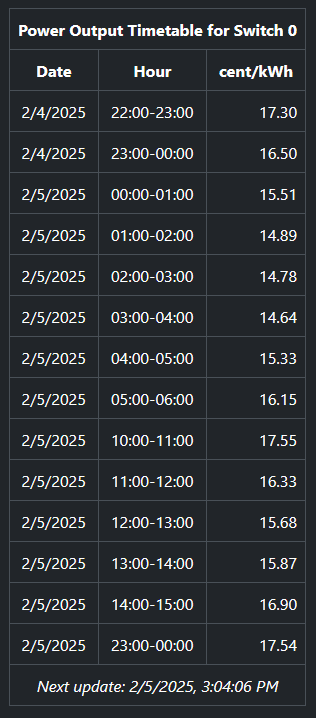
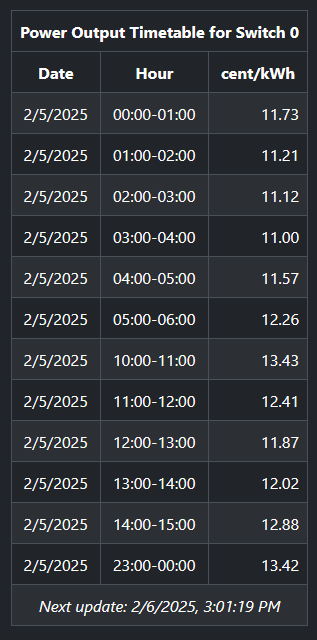
Change endpoint table to striped.

Changed region(s): [[0.0285, 0.0, 0.9968, 1.0]]

diff --git a/dist/final.js b/dist/final.js
@@ -1,15 +1,16 @@
-// Spotelly Version 1.3
+// Spotelly Version 2.0
 // This script uses EPEX spot hourly energy prices to control the power output of a Shelly device.
 // See https://github.com/towiat/spotelly for the full documentation.
+// This script uses price data from http://energy-charts.info
 
 // <<<<< START OF CONFIGURATION - change values below to your preference >>>>>
 
 let epexBZN = "AT"; // EPEX Bidding Zone - see documentation for valid codes
 
-let blockMode = true; // set calculation mode
 let switchOnDuration = 4; // minimum 1, maximum 24
 let timeWindowStartHour = 7; // minimum 0, maximum 23
 let timeWindowEndHour = 19; // minimum 0, maximum 23
+let blockMode = true; // set calculation mode
 let priceLimit = Infinity; // in cent/kWh
 
 // change this function to display prices according to the conditions of your contract
@@ -34,7 +35,7 @@ let sendPowerOff = true; // send telegram when power has been switched off by th
 let times = {};
 let randomOffset = Math.random() * 300000;
 let nextUpdate = 0;
[2 lines of base64/hex data omitted]
 
 function logAndNotify(msg, sendTelegram) {
   print(msg);

diff --git a/src/spotelly.js b/src/spotelly.js
@@ -1,15 +1,16 @@
-// Spotelly Version 1.3
+// Spotelly Version 2.0
 // This script uses EPEX spot hourly energy prices to control the power output of a Shelly device.
 // See https://github.com/towiat/spotelly for the full documentation.
+// This script uses price data from http://energy-charts.info
 
 // <<<<< START OF CONFIGURATION - change values below to your preference >>>>>
 
 let epexBZN = "AT"; // EPEX Bidding Zone - see documentation for valid codes
 
-let blockMode = true; // set calculation mode
 let switchOnDuration = 4; // minimum 1, maximum 24
 let timeWindowStartHour = 7; // minimum 0, maximum 23
 let timeWindowEndHour = 19; // minimum 0, maximum 23
+let blockMode = true; // set calculation mode
 let priceLimit = Infinity; // in cent/kWh
 
 // change this function to display prices according to the conditions of your contract

diff --git a/src/endpoint.html b/src/endpoint.html
@@ -10,7 +10,7 @@
   </head>
 
   <body>
-    <table class="table table-bordered w-auto mx-auto text-center">
+    <table class="table table-bordered table-striped w-auto mx-auto text-center">
       <thead id="h"></thead>
       <tbody id="b"></tbody>
     </table>
